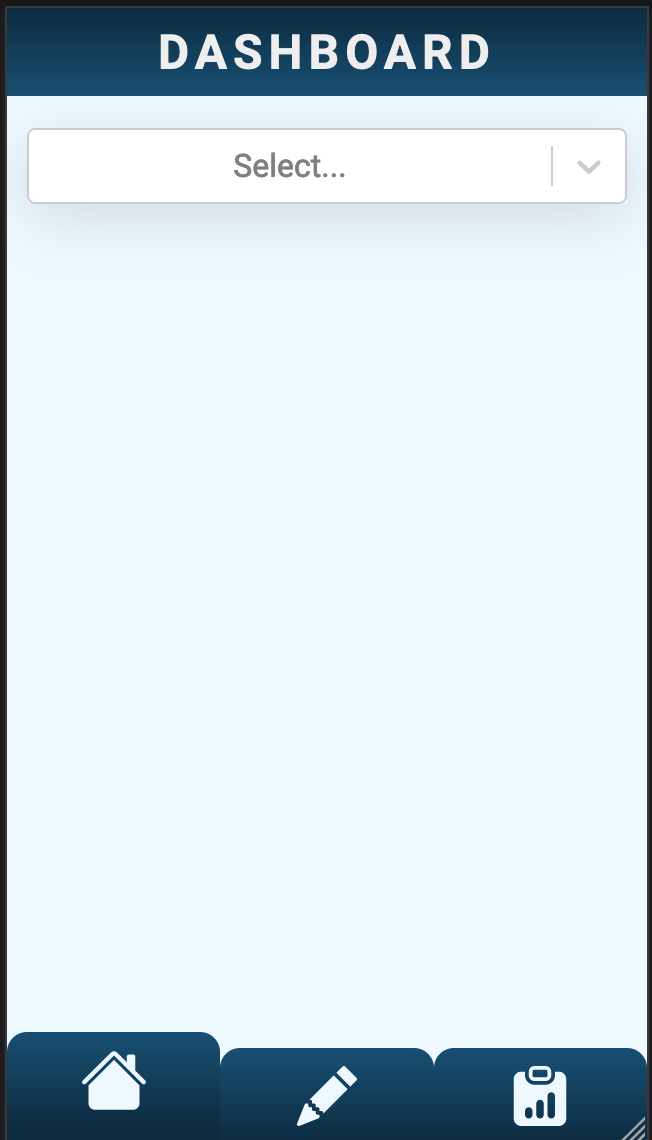
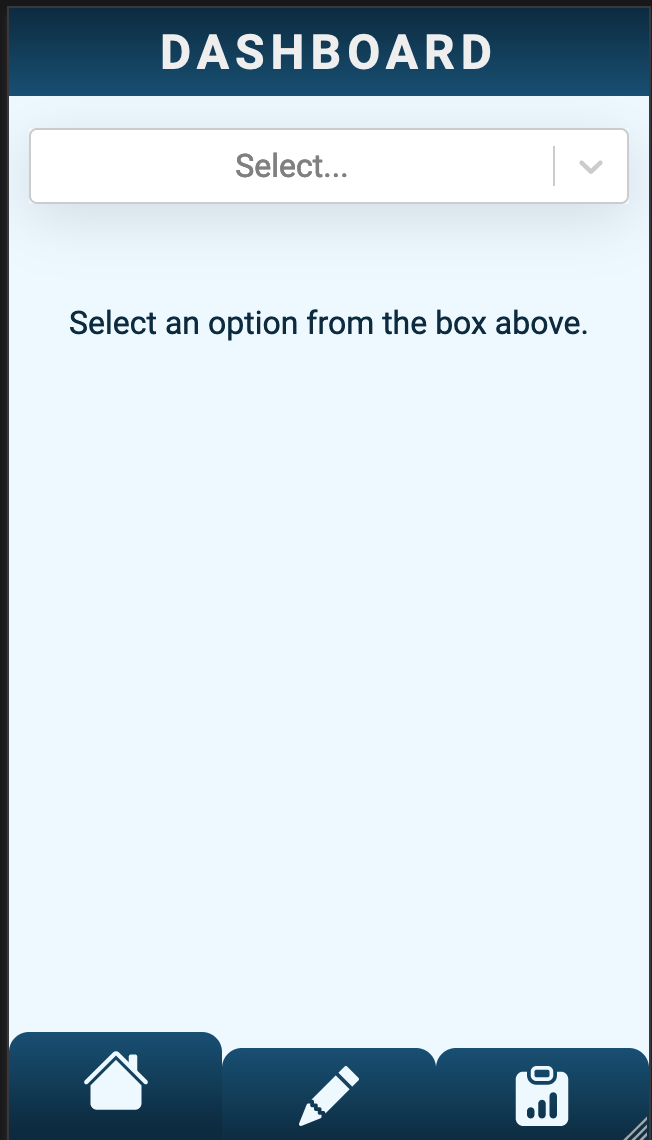
Add a message to startscreen and fix storybook

diff --git a/src/App.js b/src/App.js
@@ -38,6 +38,9 @@ export default function App() {
                 selectedProject={selectedProject}
                 setSelectedProject={setSelectedProject}
               />
+              {!selectedProject && (
+                <EmptyState>Select an option from the box above.</EmptyState>
+              )}
               {selectedProject && (
                 <Dashboard
                   selectedProject={selectedProject}
@@ -221,4 +224,10 @@ export default function App() {
 const Container = styled.div`
   padding-top: 50px;
   padding-bottom: 50px;
+`;
+
+const EmptyState = styled.p`
+  margin: 10px;
+  text-align: center;
+  margin-top: 50px;
 `;

diff --git a/src/components/Button.js b/src/components/Button.js
@@ -13,7 +13,7 @@ const Button = styled.button`
   border-radius: 15px;
   box-shadow: rgba(50, 50, 93, 0.25) 0px 13px 27px -5px,
     rgba(0, 0, 0, 0.3) 0px 8px 16px -8px;
-  color: var(--font-color-light);
+  color: var(--font-color-dark);
   opacity: 0.8;
 
   :hover {
@@ -31,12 +31,14 @@ const Button = styled.button`
 export default Button;
 
 const ButtonPrimary = styled(Button)`
+  color: var(--font-color-light);
   background-color: var(--bg-color-primary);
 `;
 
 export { ButtonPrimary };
 
 const ButtonSecondary = styled(Button)`
+  color: var(--font-color-light);
   background-color: var(--bg-color-secondary);
 `;
 

diff --git a/src/components/Button.stories.js b/src/components/Button.stories.js
@@ -1,11 +1,13 @@
 import Button from './Button';
+import { ButtonPrimary } from './Button';
+import { ButtonSecondary } from './Button';
 
 export default {
   title: 'Button',
   component: Button,
+  subcomponents: { ButtonPrimary, ButtonSecondary },
 };
 
-const Template = args => <Button {...args}>CLICK ME!</Button>;
-
-export const Default = Template.bind({});
-Default.args = {};
+export const Empty = () => <Button>CLICK ME</Button>;
+export const Primary = () => <ButtonPrimary>PRIMARY</ButtonPrimary>;
+export const Secondary = () => <ButtonSecondary>SECONDARY</ButtonSecondary>;
